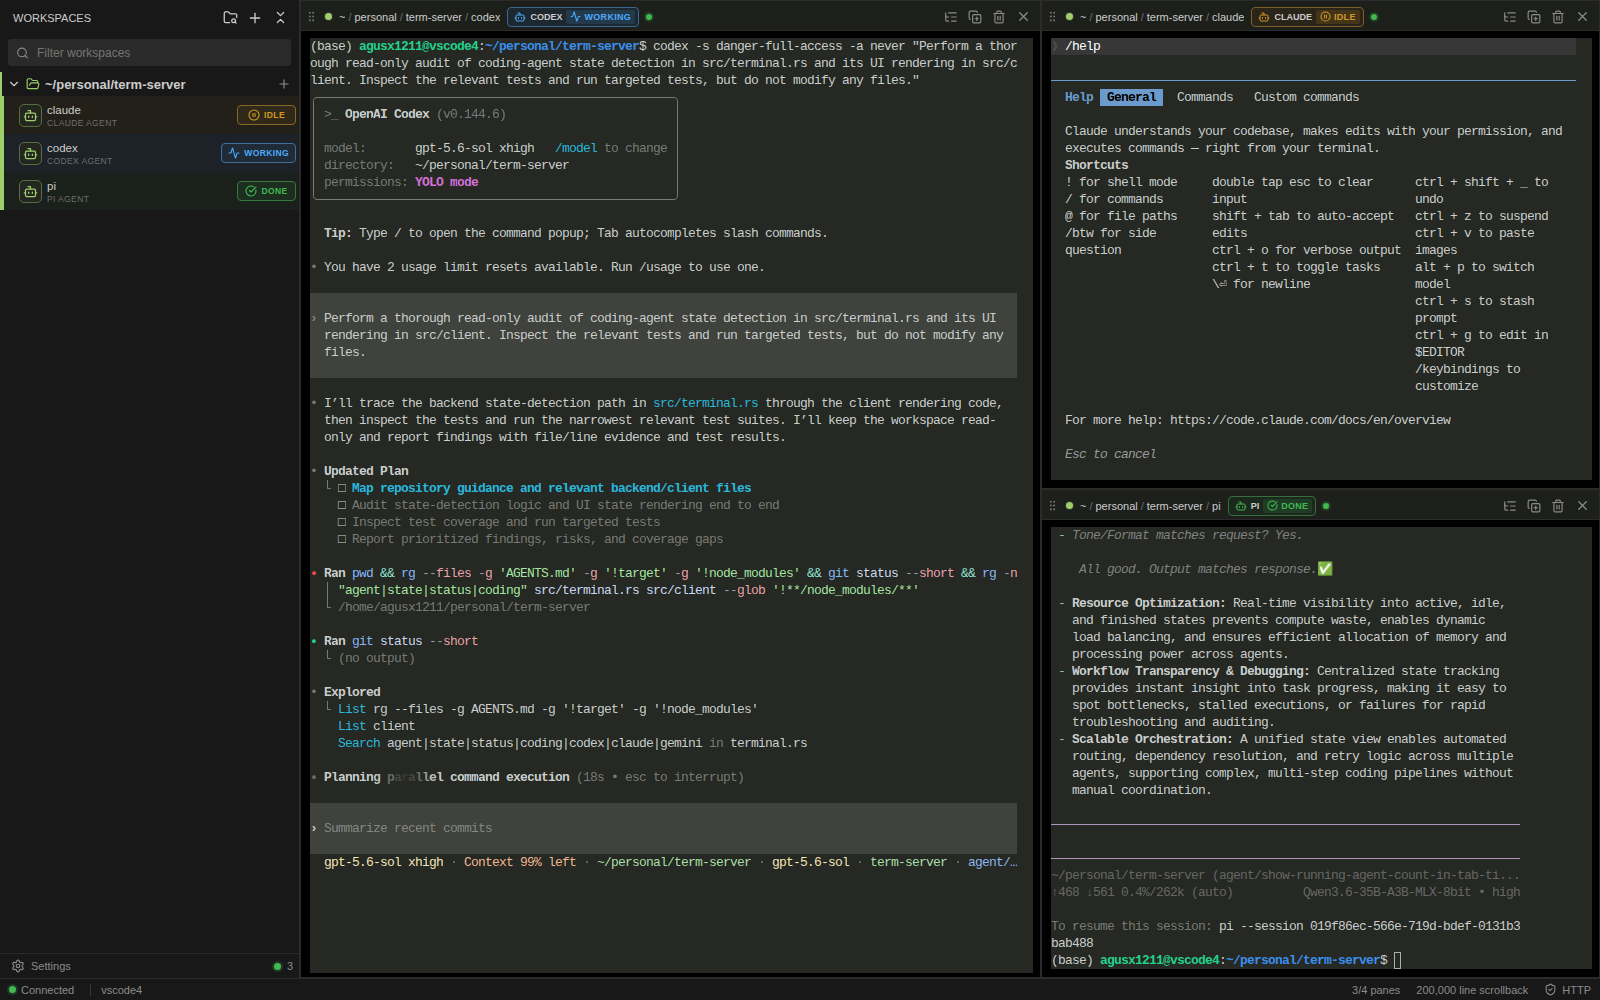
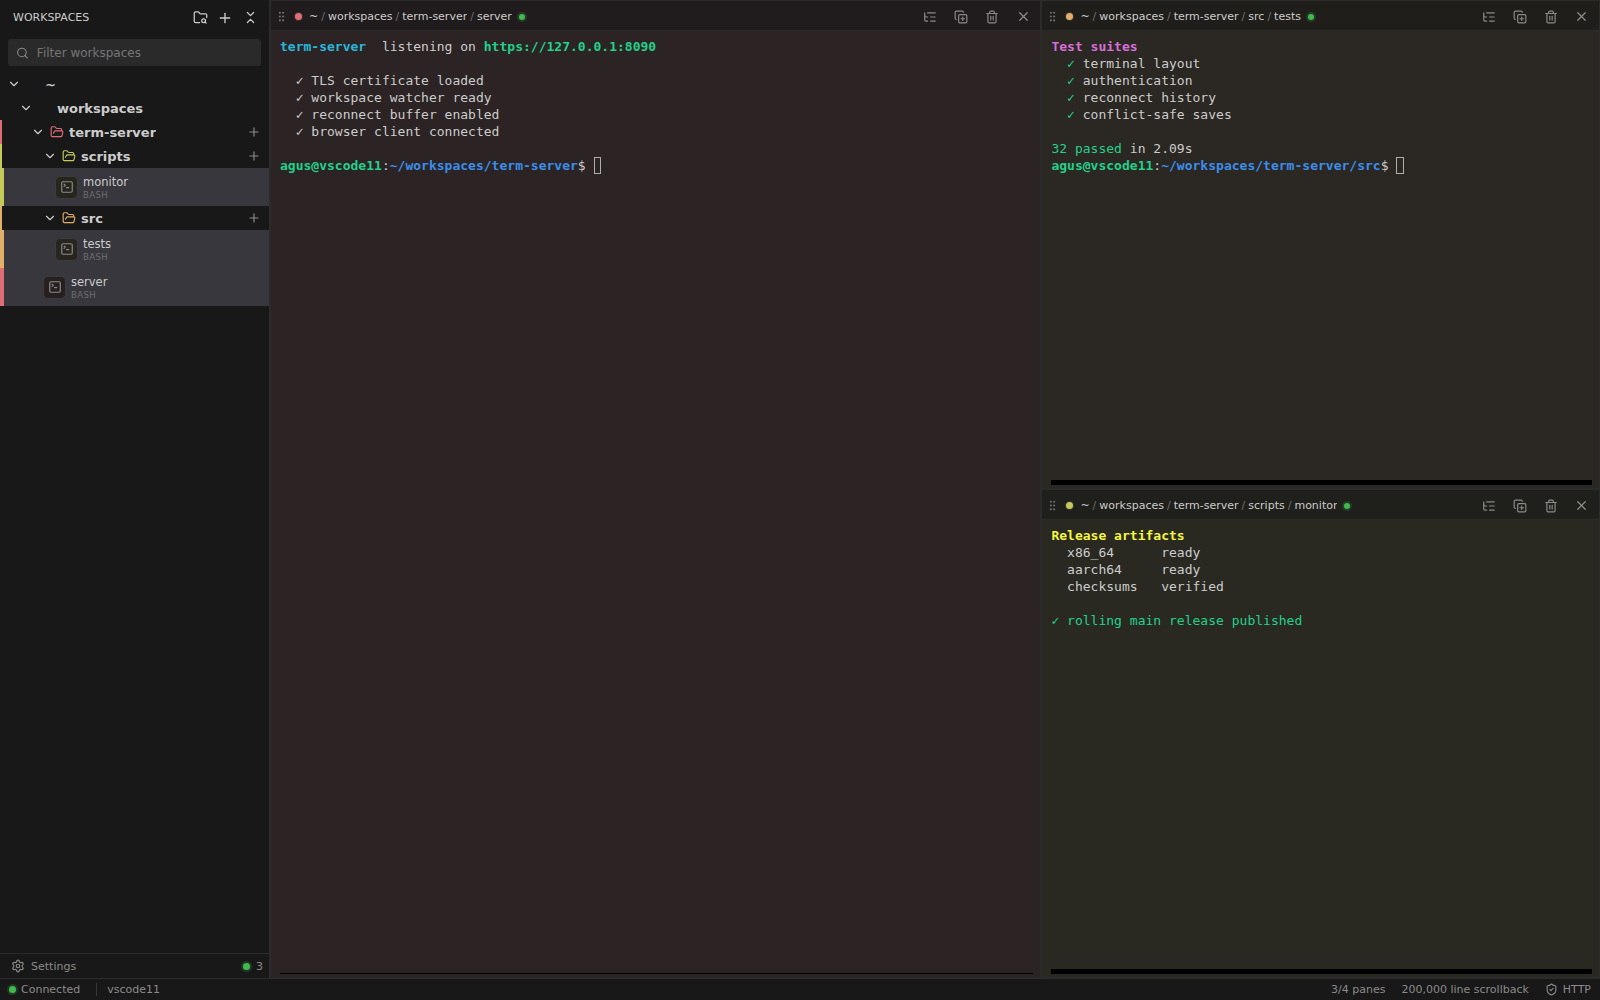
Restore original README screenshot

diff --git a/README.md b/README.md
@@ -10,7 +10,7 @@
   </p>
 </div>
 
-![Live term-server workspace with Codex working, Claude idle, and Pi finished](docs/screenshots/agents.png)
+![term-server workspace with three live terminal panes](docs/screenshots/hero.png)
 
 term-server is a small Rust daemon that keeps native PTYs alive and makes them available through a focused web interface. Terminals automatically follow their live working directories, so the sidebar becomes a workspace tree without any manual project setup. Split panes, reconnect history, a lightweight file editor, and a Linux process inspector are available when you need them; the product still feels like a terminal, not a browser IDE.
 
@@ -61,6 +61,8 @@ On first boot, open `https://127.0.0.1:8090`. term-server prints a random passwo
     <td align="center"><strong>Live process tree</strong></td>
   </tr>
 </table>
+
+The unframed workspace capture used for the hero is also available at [docs/screenshots/workspaces.png](docs/screenshots/workspaces.png).
 
 ## Everyday use
 